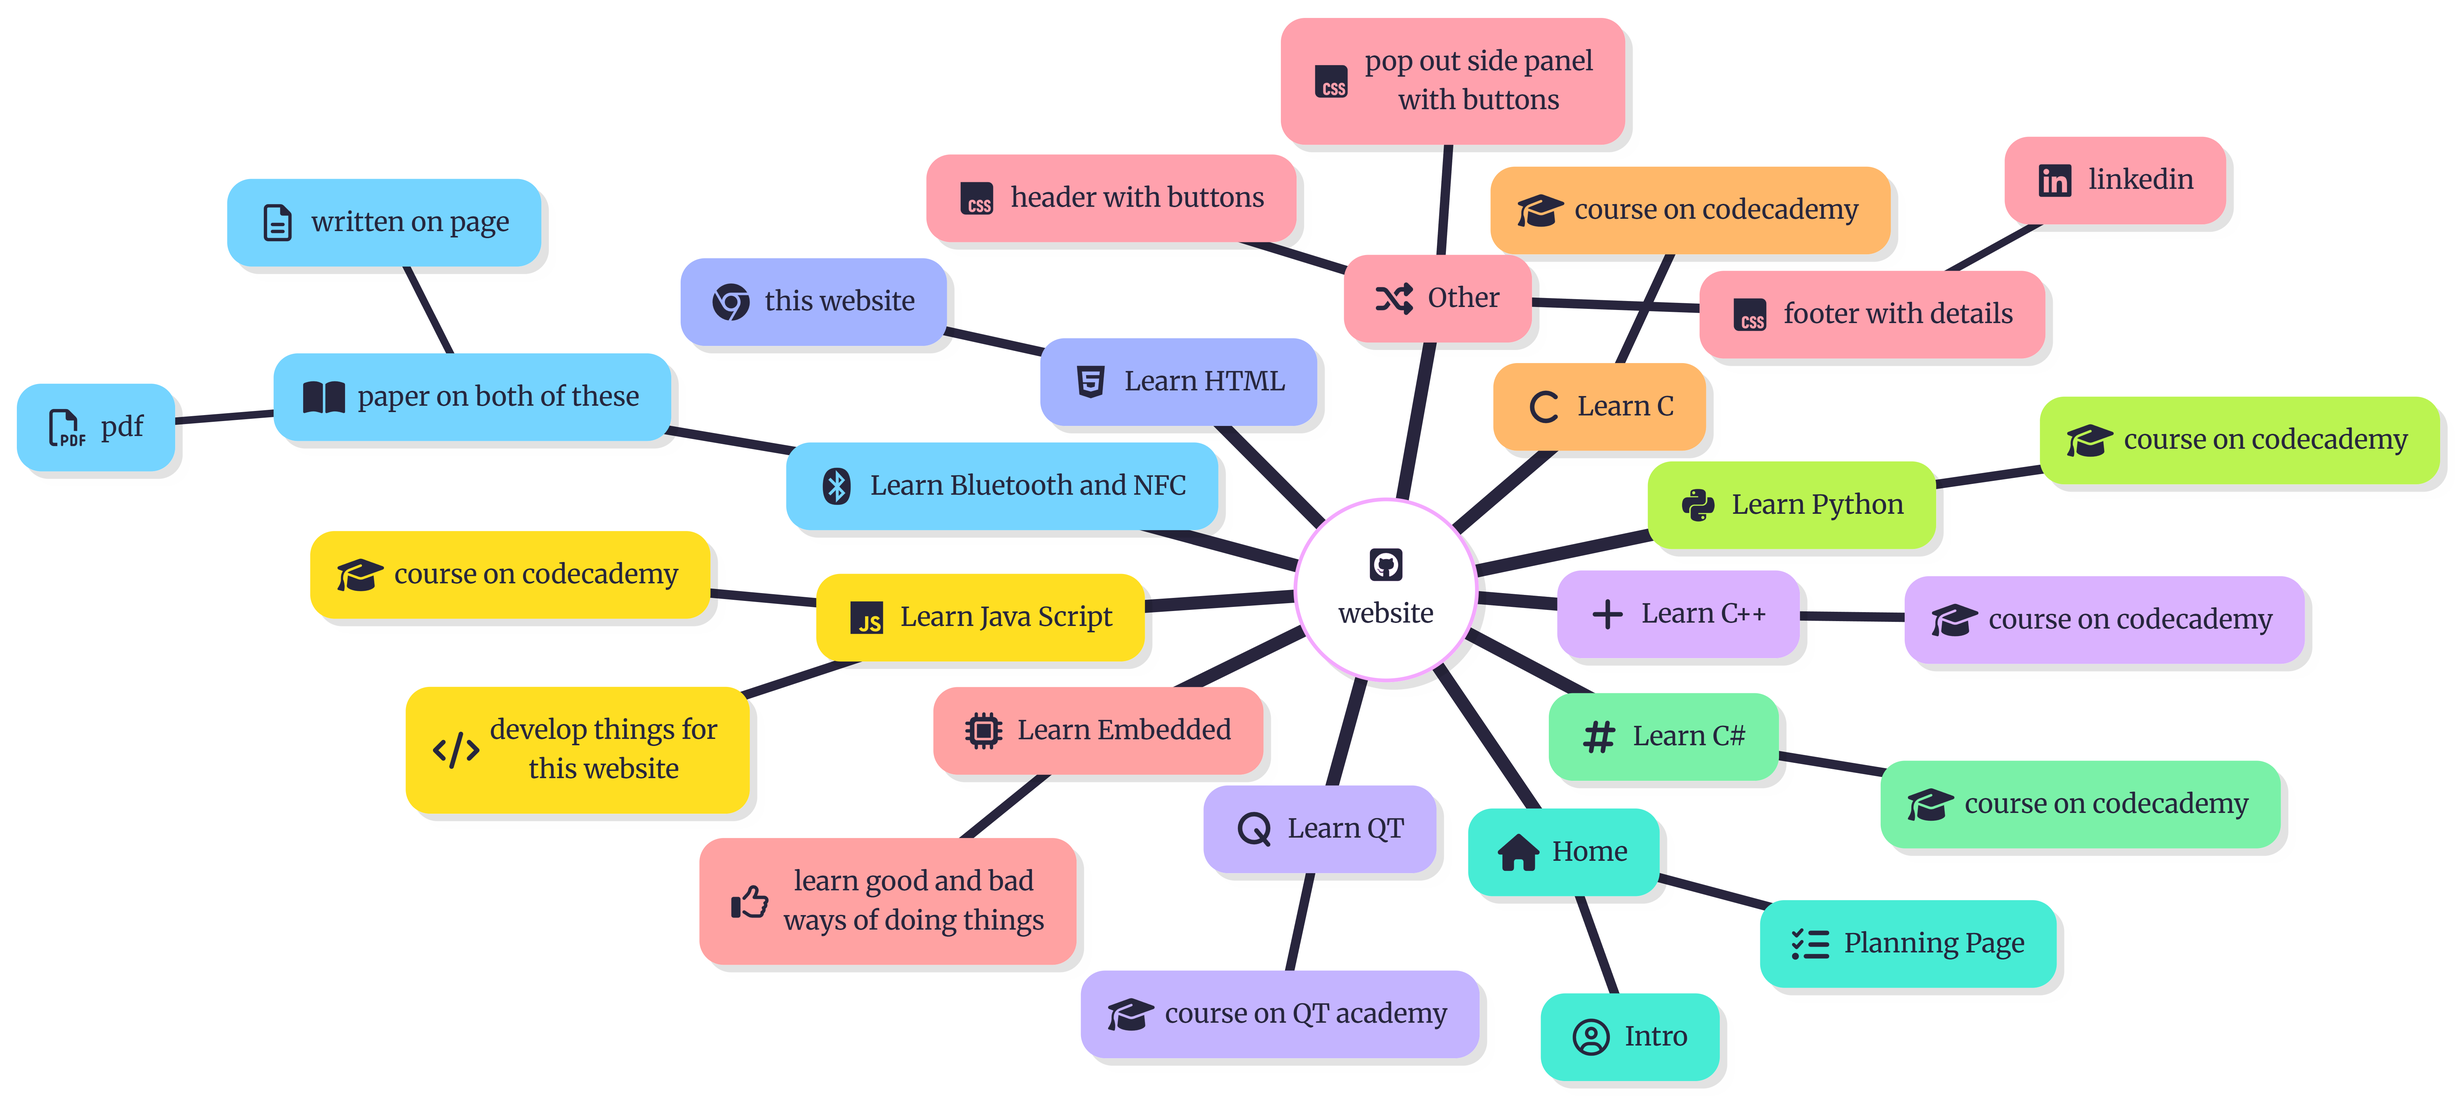
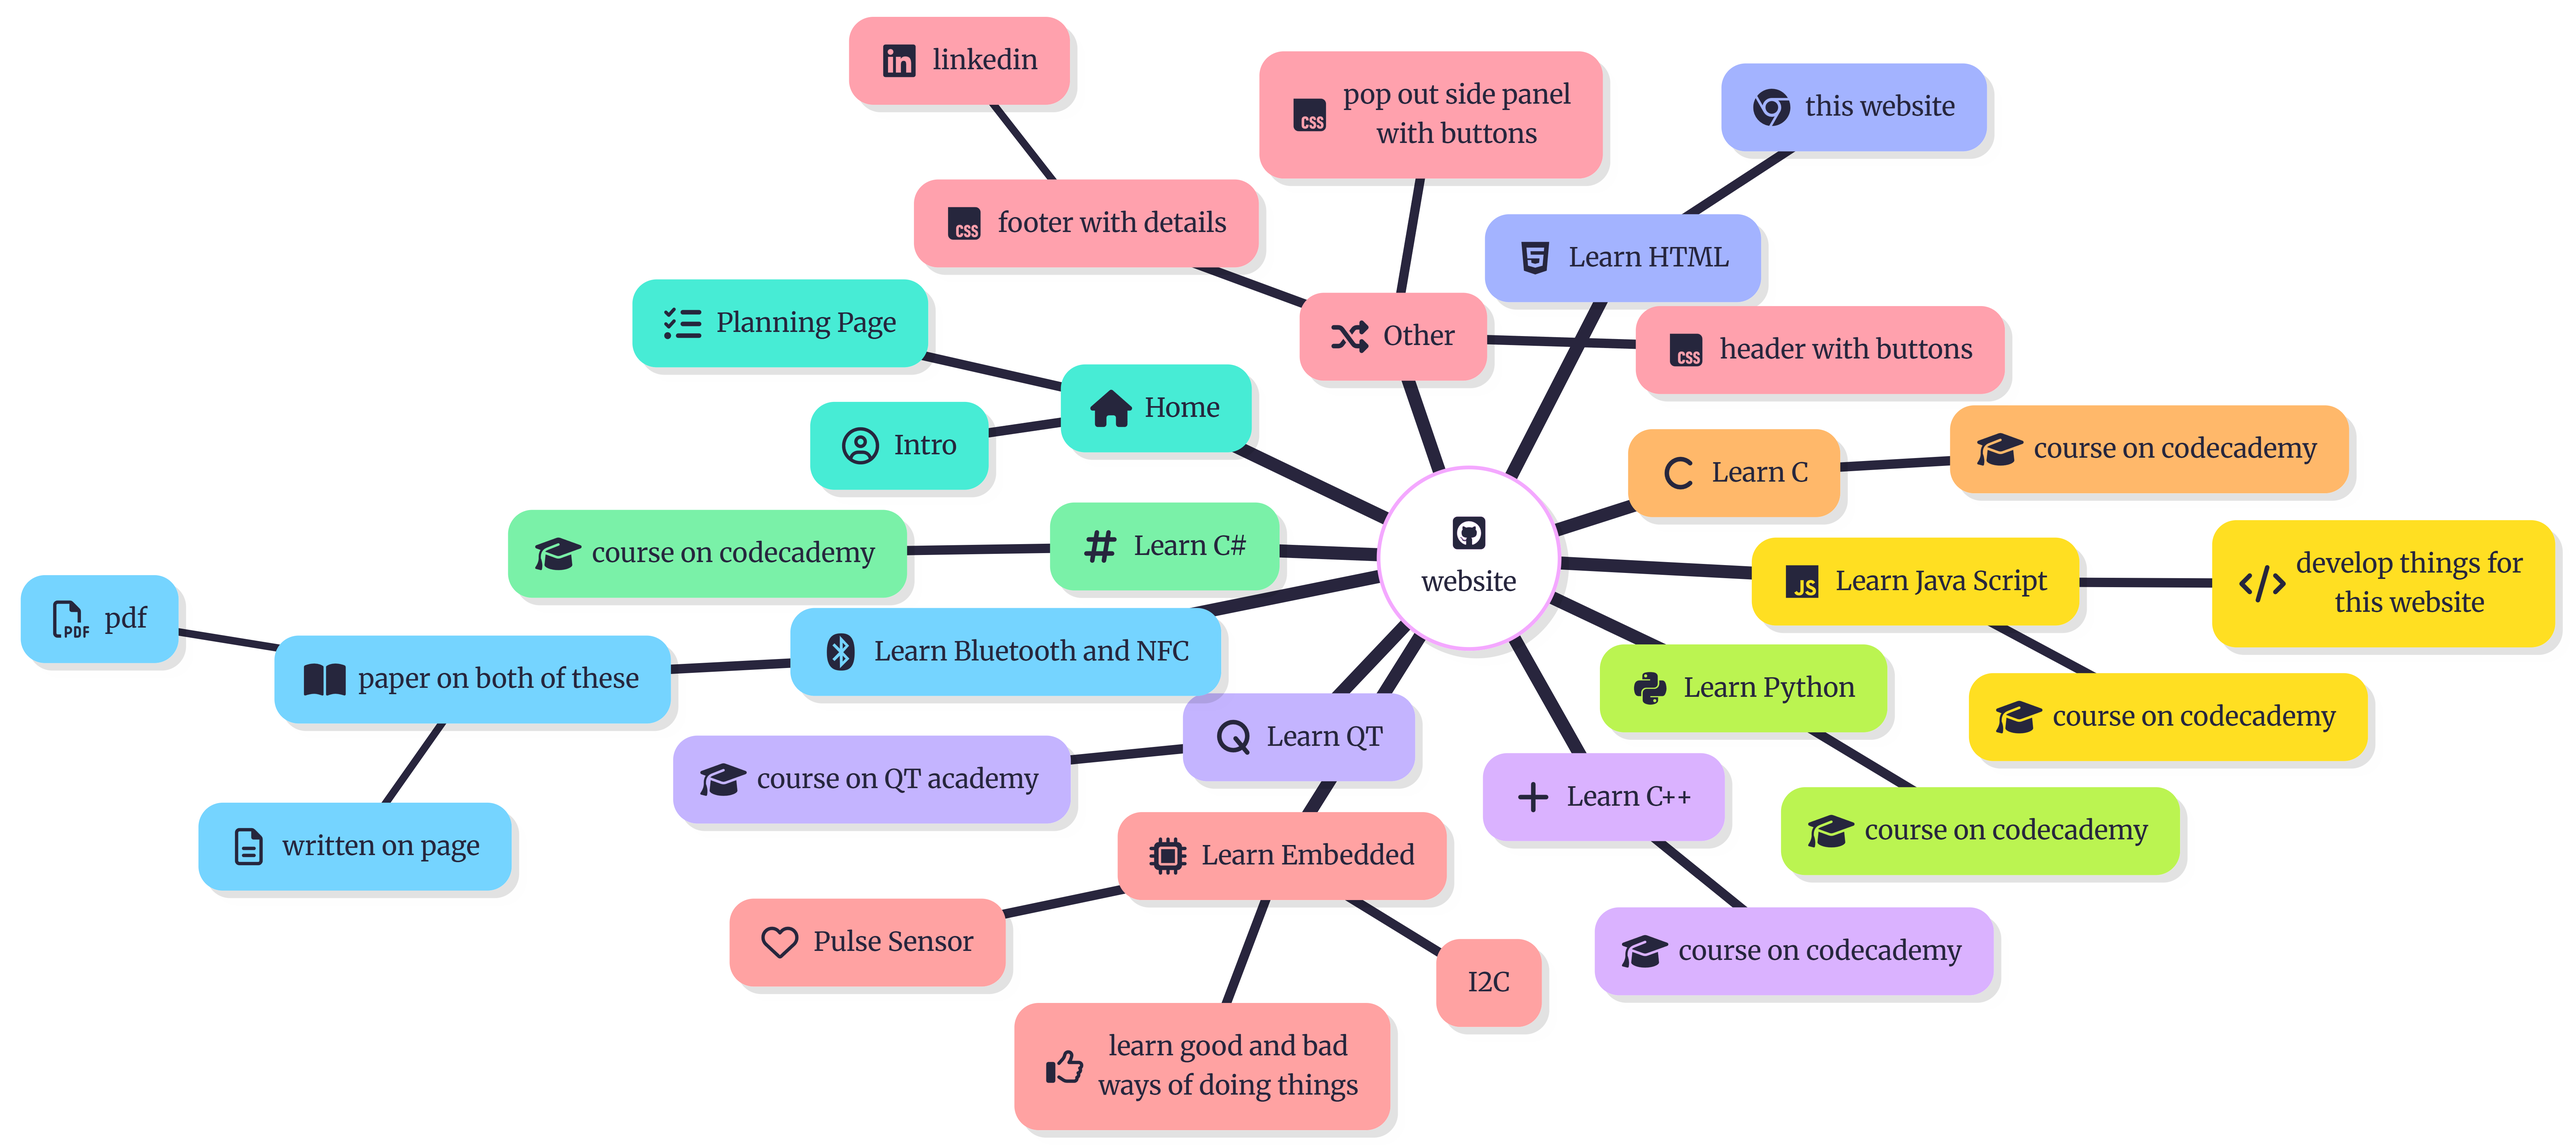
Updated Mindmap

diff --git a/design/style.css b/design/style.css
@@ -82,8 +82,8 @@
 }
 .mindmap
 {
-  width: auto;
-  height: auto;
+  width: 1313;
+  height: 588;
 
   display: block;
   margin-left: auto;
